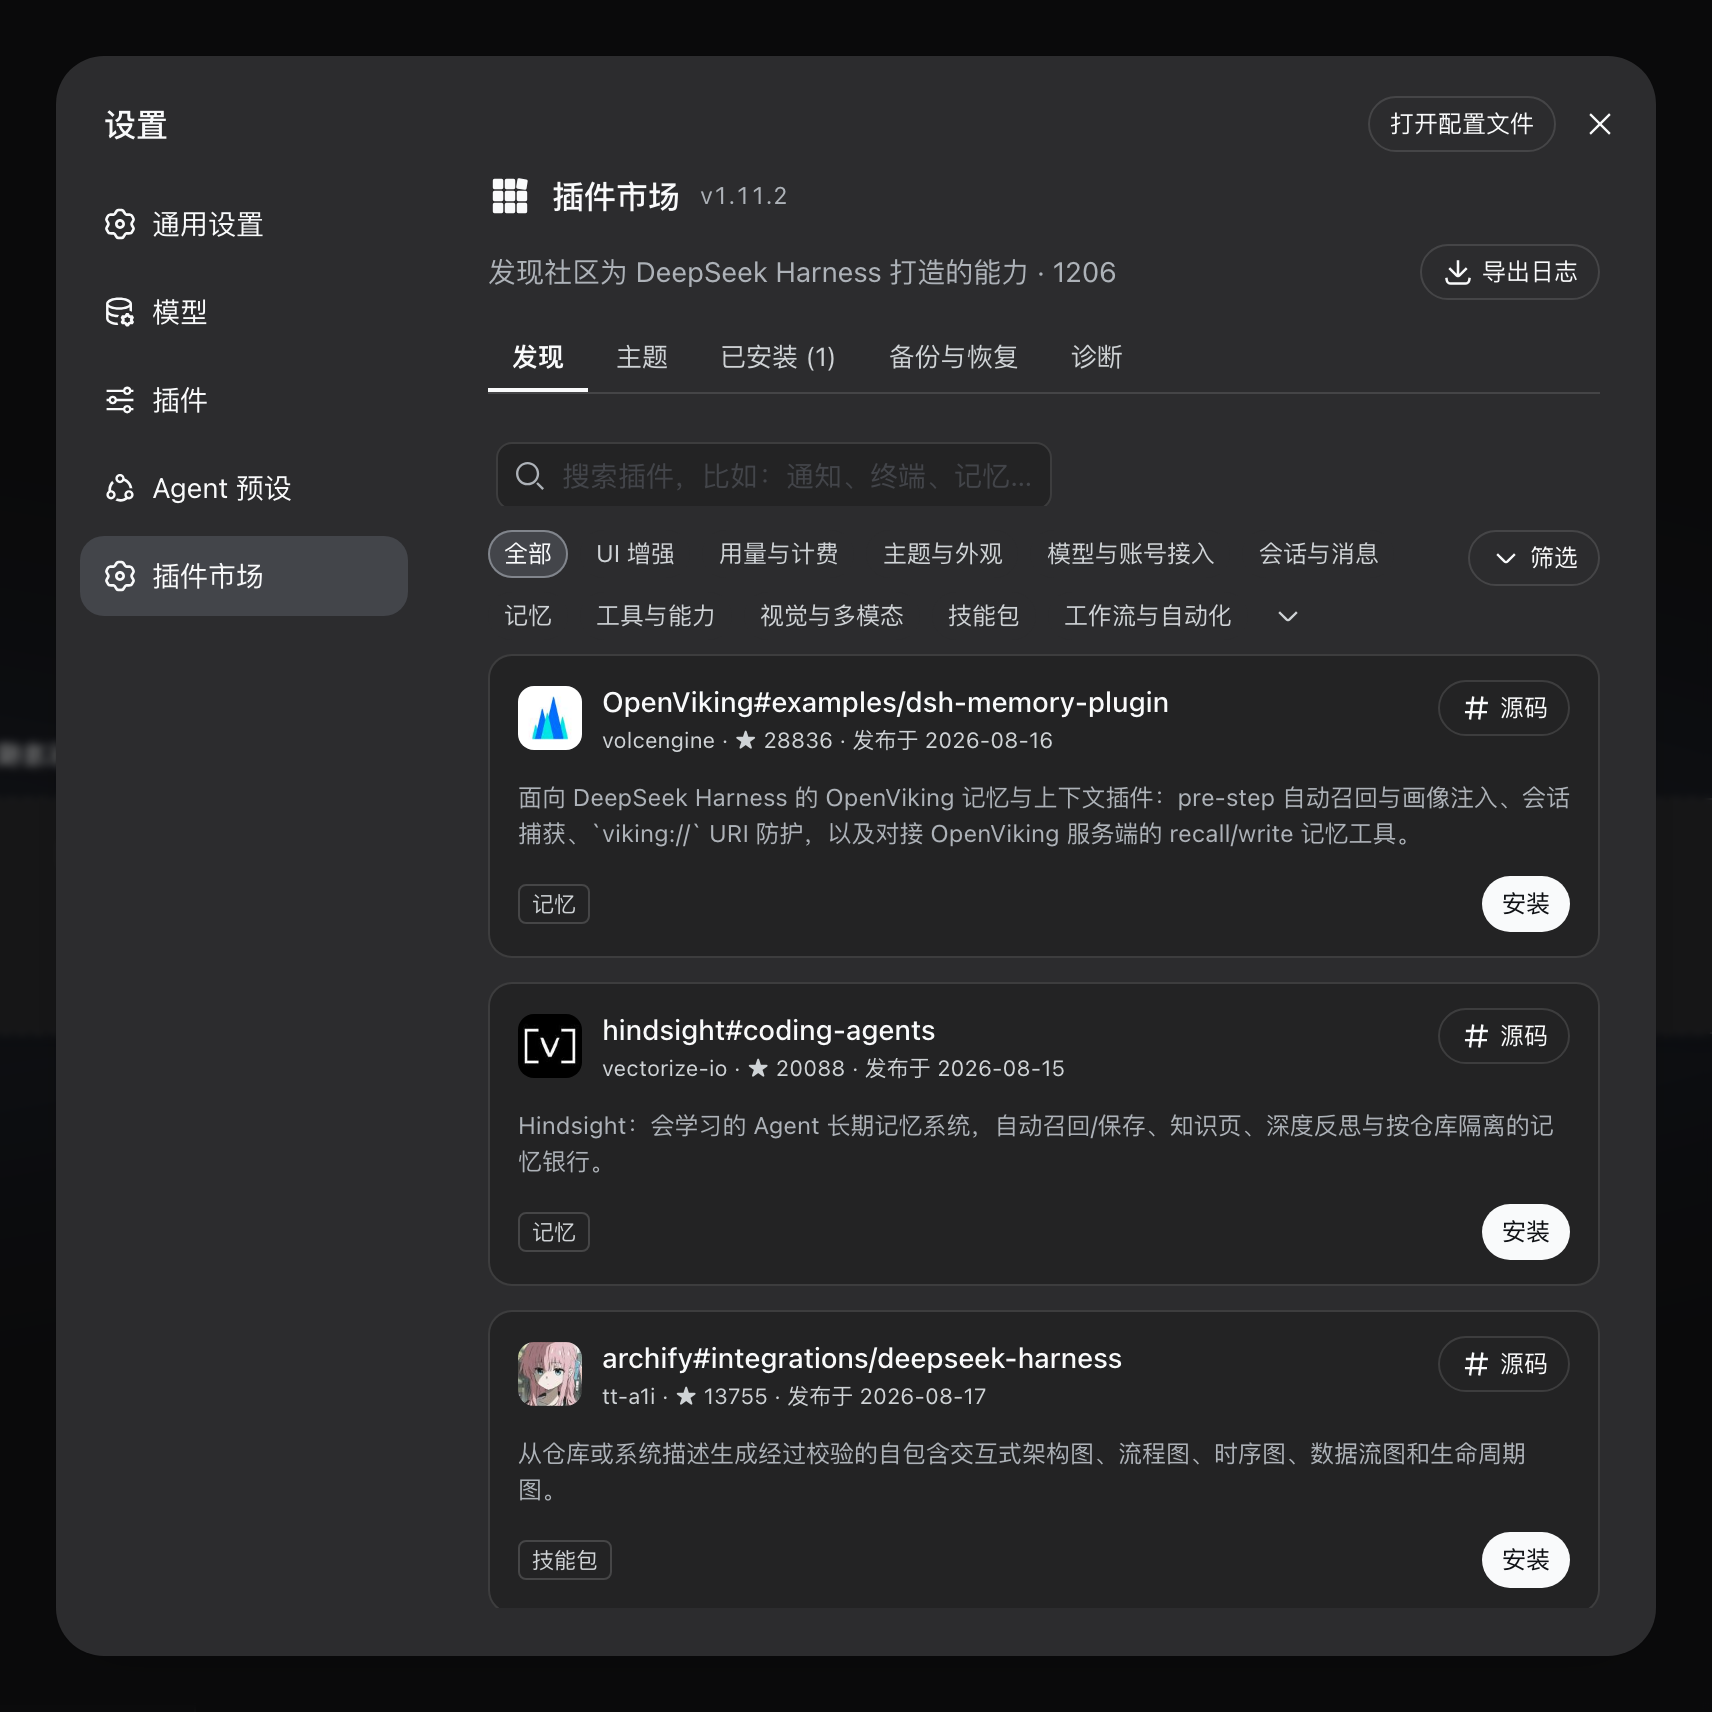
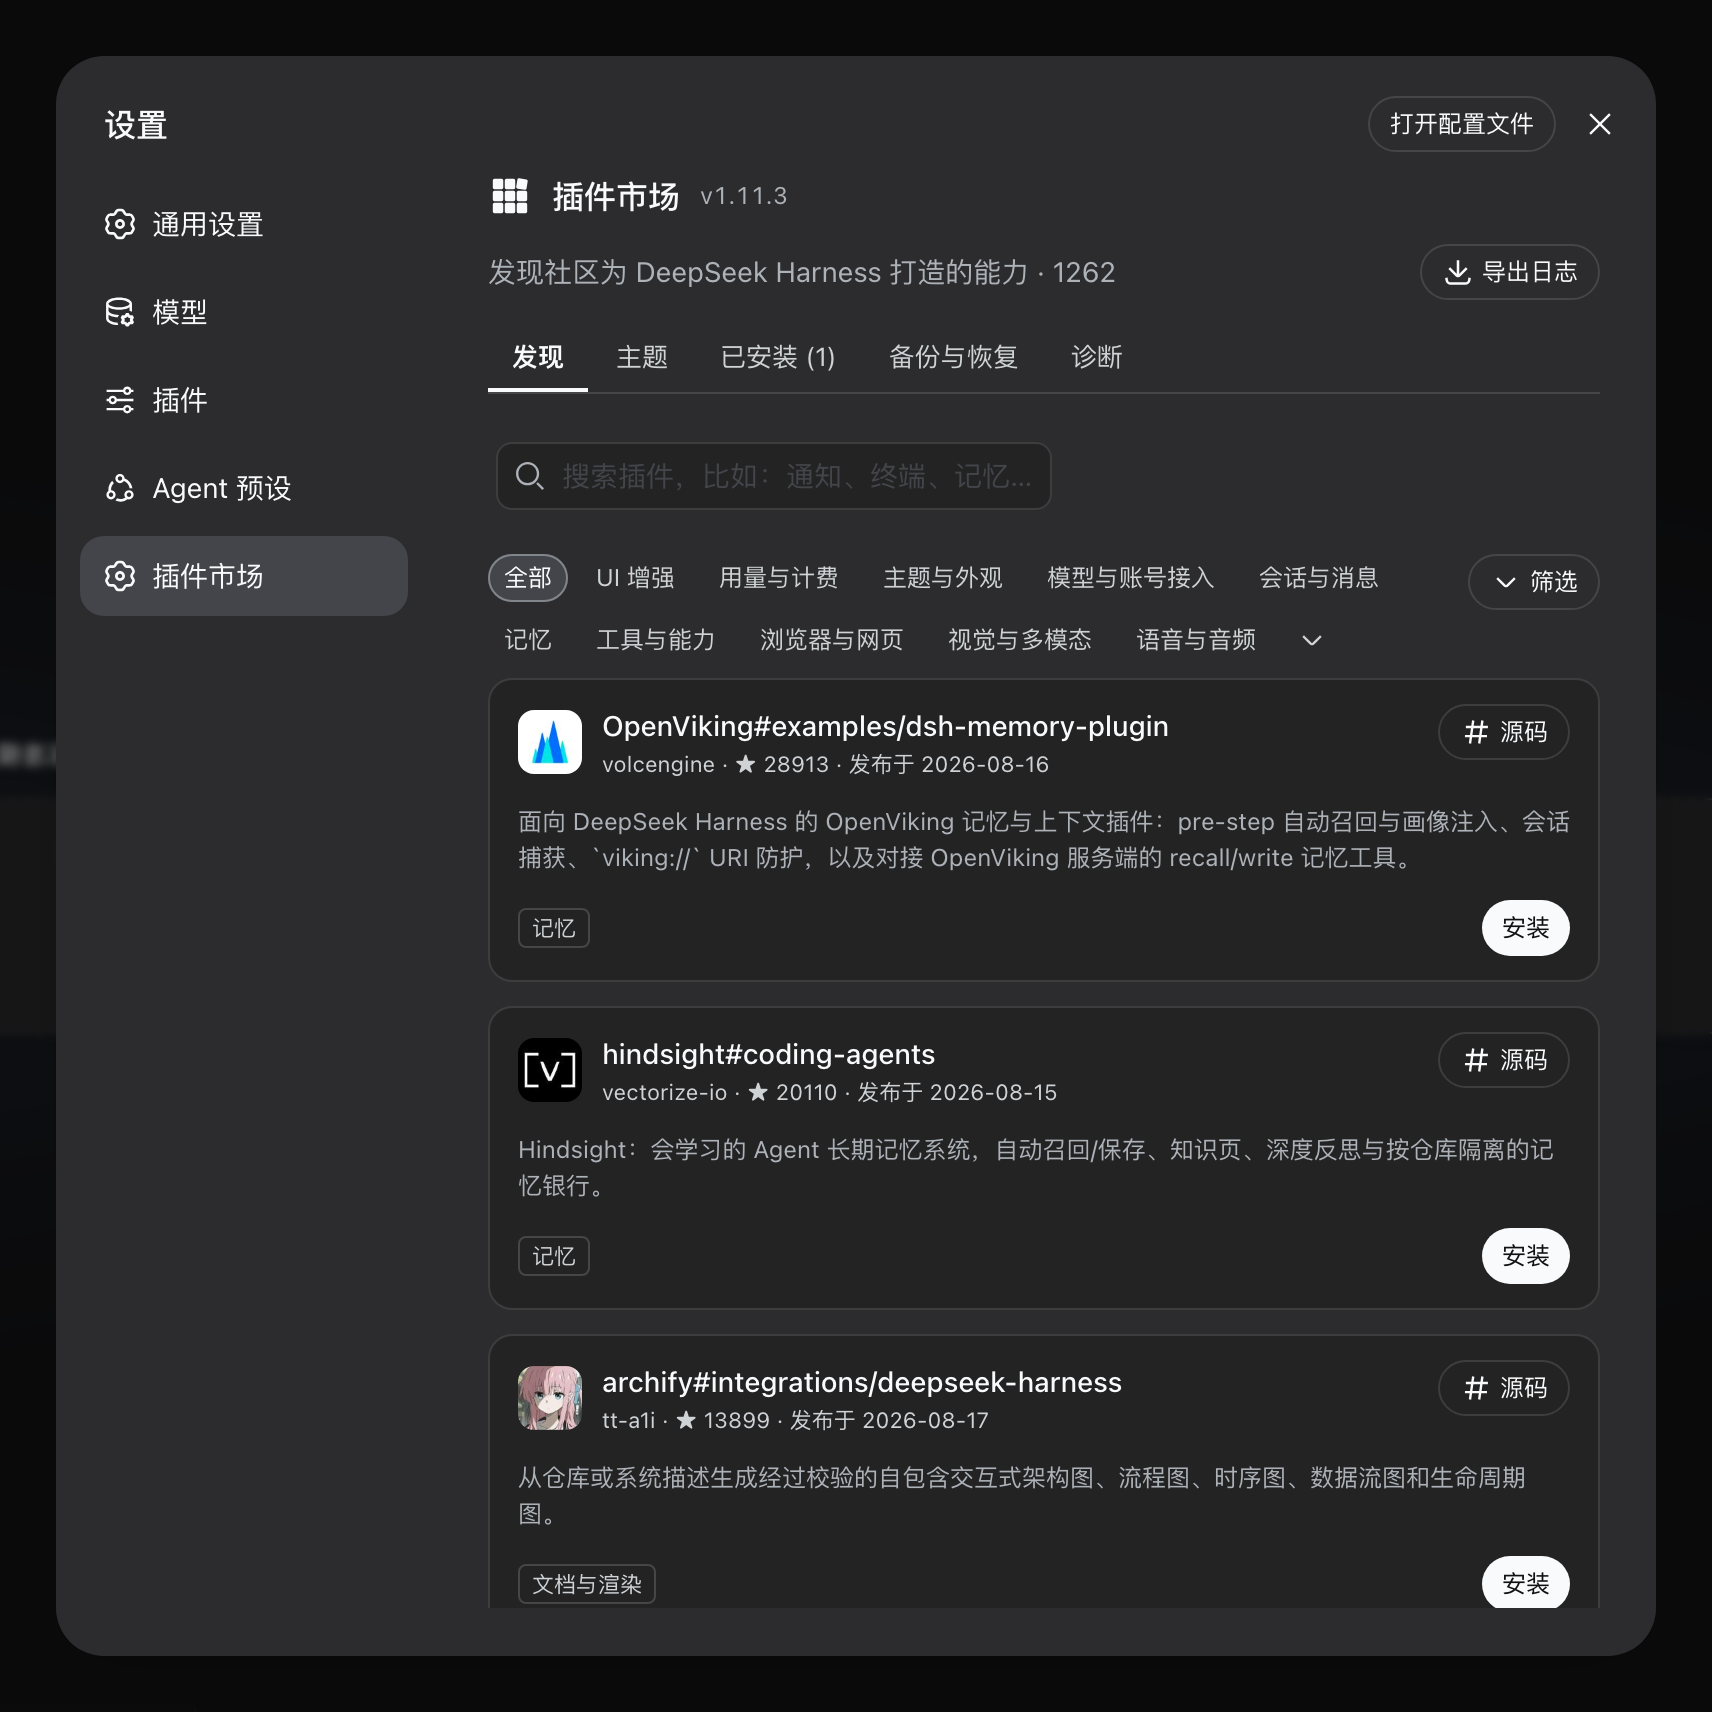
docs: state the host version requirement, and refresh the screenshots again
#139 arrived from a desktop build that bundles its own dsh, older than the
one npm hands you: the market found the rc.6 primitives missing, disabled
itself, said so in the console, and the reporter saw a settings list with no
Plugin Market in it. The reporter asked us to recommend a compatible desktop
instead. Naming one would tie this market to a single desktop, which it
deliberately is not — so the README states the requirement itself, which is
what actually answers "why is it not there".

The screenshots are regenerated because the previous set predates today's
two layout fixes — the old ones show the search box with its lower edge
covered by the sticky category bar, which is now the bug rather than the
product.

Also adds the settings card to both feature lists, and moves the catalog
figure to 1250+.

diff --git a/README.md b/README.md
@@ -25,9 +25,15 @@ dsh plugin --profile web add dshmarket
 
 Restart `dsh web`, then open **Settings → Plugin Market**.
 
+**Requires dsh web 0.1.0-rc.6 or newer.** On an older host the market
+disables itself and says so in the browser console rather than rendering
+against primitives that are not there — if the Plugin Market entry never
+appears, that is usually why. Worth checking when a desktop build bundles
+its own dsh: it may be older than the one `npm` would give you (#139).
+
 ## What you get
 
-- **Browse & search** the full community catalog (1200+ plugins, growing daily) — category filters, star counts, top/new sorting, bilingual descriptions that follow your UI language
+- **Browse & search** the full community catalog (1250+ plugins, growing daily) — category filters, star counts, top/new sorting, bilingual descriptions that follow your UI language
 - **Screenshots** — AppStore-style screenshots in the install dialog: author-curated via the registry, with automatic README extraction as fallback; images load from GitHub hosting only, and only after you open the dialog
 - **Themes** — a dedicated tab for community themes and skins: install → active immediately, switch with one click (themes are mutually exclusive, your choice survives restarts), uninstall to revert
 - **One-click install** — confirm the source, watch live progress; most plugins go live after a page refresh, no restart
@@ -38,6 +44,7 @@ Restart `dsh web`, then open **Settings → Plugin Market**.
 - **Restart when needed** — changes that cannot hot-load show a one-click restart beside the pending-change banner; the action is restricted to same-origin loopback requests
 - **Zero jargon** — if a component is missing (pnpm), the market detects it and offers a one-click automatic setup
 - **Log export** — one click produces a sanitized plain-text log for bug reports (home paths and credential shapes are masked; nothing is ever sent anywhere). The market's version sits next to the page heading, so a screenshot of a problem already carries it
+- **Settings card** — on dsh 0.1.0-rc.7 and newer the market puts its own option (whether one-click restart is allowed) on **Settings → Plugins → Plugin configuration**, so a host owned by systemd, launchd or pm2 is a switch rather than a hand-edited YAML line
 - **Diagnostics** — the plugin load order and conflict surface, one page: bundle stack with official/community badges, duplicate loader entries, dependency version mismatches, multi-version core packages, overrides and invalid config entries. Plain-language terms, problem blocks highlighted, everything collapsible
 
 - **Load order** — drag community bundles into the order you want, or take the suggested one derived from the plugins' own before/after rules. Nothing is written until a trial composition passes, and the panel tells you what the new order would change (overrides, invalid or duplicate entries) before you apply it

diff --git a/README.zh.md b/README.zh.md
@@ -25,9 +25,13 @@ dsh plugin --profile web add dshmarket
 
 重启 `dsh web`，打开 **设置 → 插件市场**。
 
+**需要 dsh web 0.1.0-rc.6 或更新版本。** 宿主太旧时市场会自我禁用，并在浏览器
+控制台说明原因，而不是拿缺失的原语去渲染——如果设置里根本没出现「插件市场」这
+一项，通常就是这个原因。桌面端要留意：它可能内置了比 `npm` 装到的更旧的 dsh（#139）。
+
 ## 你会得到
 
-- **逛与搜**——完整社区目录（1200+ 插件，每天在涨），分类筛选、star 数、最热/最新排序，中英描述跟随界面语言
+- **逛与搜**——完整社区目录（1250+ 插件，每天在涨），分类筛选、star 数、最热/最新排序，中英描述跟随界面语言
 - **截图展示**——安装弹窗内 App Store 式截图：作者可在 registry 里策展，没有则自动从 README 抽取；图片仅从 GitHub 图床加载，且只在你打开弹窗后才发请求
 - **主题**——独立主题页：装完立即生效，点一下切换（主题互斥、选择跨重启保留），卸载即恢复
 - **一键安装**——确认来源，实时进度；多数插件刷新页面即可用，无需重启
@@ -38,6 +42,7 @@ dsh plugin --profile web add dshmarket
 - **按需重启**——无法热加载的变更会在待重启提示旁显示一键重启；操作仅接受本机同源请求
 - **零术语**——缺组件（pnpm）时市场自己发现、一键自动装好，全程不见命令行
 - **导出日志**——一键生成脱敏纯文本日志方便反馈（home 路径与密钥形状已打码；任何数据都不会被上传）。市场版本号就在标题旁边，截图反馈时自带版本信息
+- **设置卡片**——dsh 0.1.0-rc.7 起，市场把自己的选项（是否允许一键重启）放到 **设置 → 插件 → 插件配置** 里。宿主由 systemd / launchd / pm2 托管时，这就是一个开关，不用再手改 YAML
 - **诊断**——插件加载顺序与冲突一页看全：bundle 栈（官方/社区徽标）、重复的 loader 条目、依赖版本不一致、核心包多版本共存、覆盖项与非法配置条目。术语说人话，问题块高亮，全部可折叠
 - **加载顺序**——拖拽调整社区 bundle 的顺序，或直接采用按插件自身 before/after 规则推导出的建议顺序。写入前先跑一次静态组合校验，通过才落盘；应用之前面板会告诉你这个顺序会改变什么（多少处覆盖、多少无效或重复条目）
 - **AI 修复**——一键把诊断结果生成的修复 prompt（错误/警告/顺序冲突 + 保守的改动范围约束）复制到剪贴板，你粘进新对话，自己决定发不发
